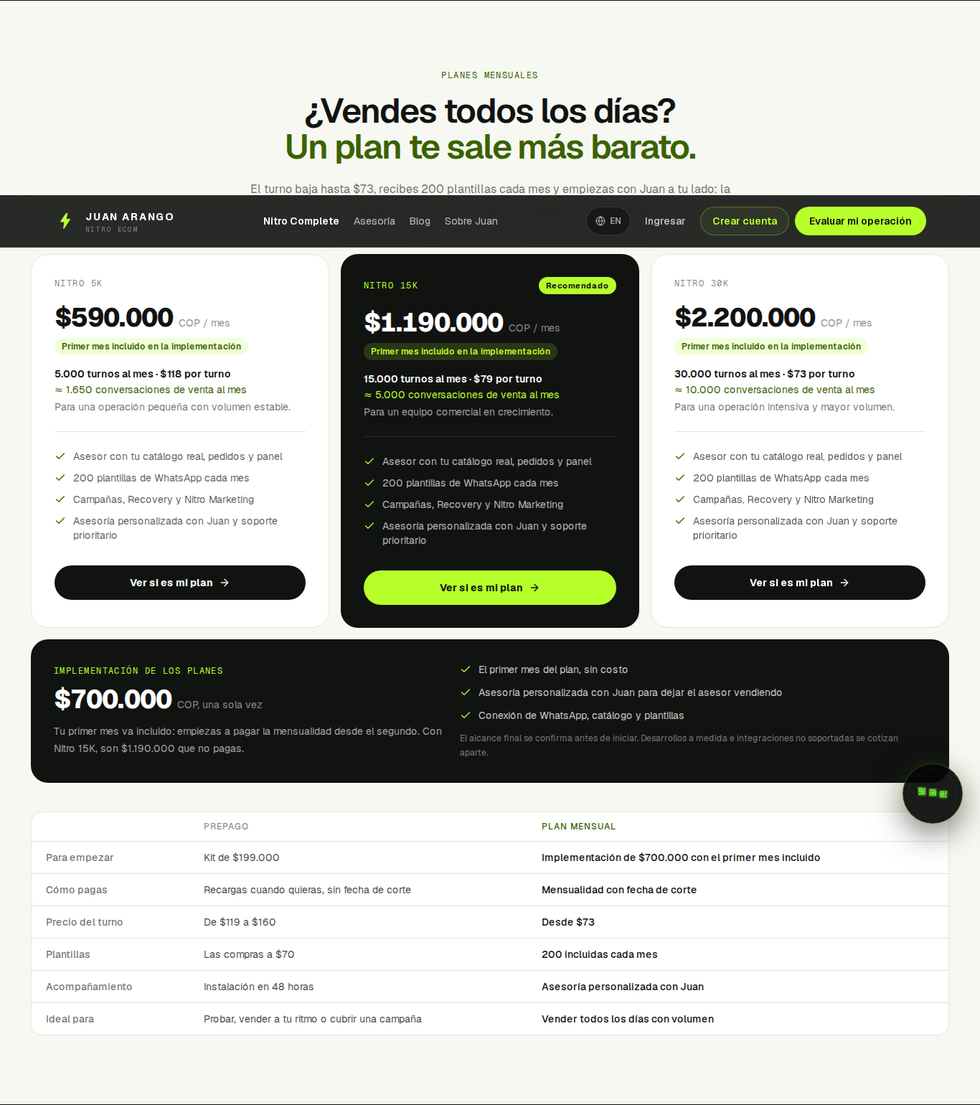
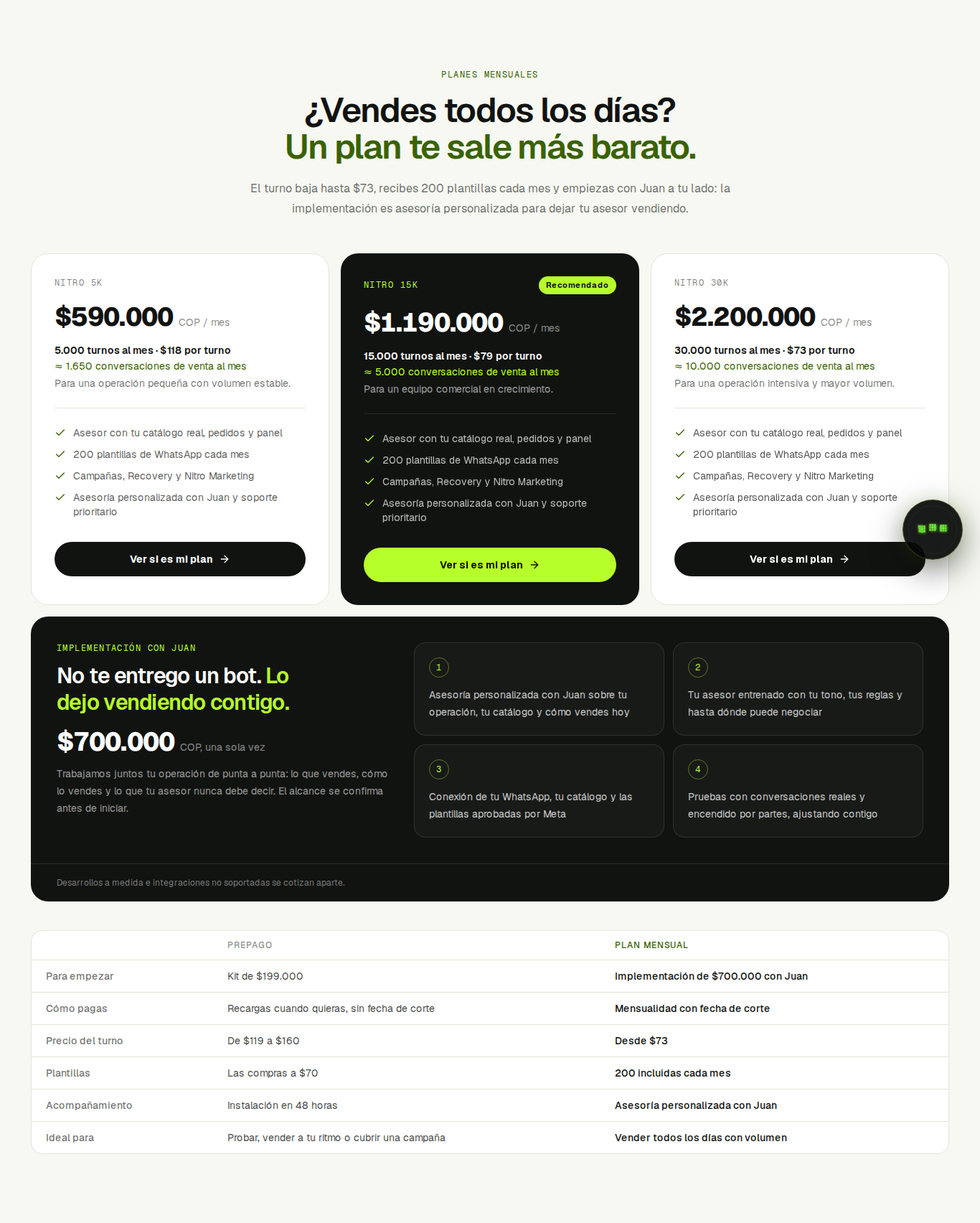
Nitro Complete: kit-only entry, no free first month, implementation narrative
- Remove the recharge planner: the entry is a single starter-kit card with
  what it includes, three next steps and recharge prices folded in a details.
- The implementation no longer includes the first month (Juan's decision):
  removed from plan cards, implementation block, comparison, FAQ, hero and
  home. New narrative: implementation with Juan in four steps, same list as
  nitro_bot's IMPLEMENTATION_INCLUDES.

Changed region(s): [[0.0, 0.0623, 1.0, 0.9351], [0.0, 0.9974, 1.0, 1.0]]

diff --git a/src/app/(main)/nitro-complete/page.tsx b/src/app/(main)/nitro-complete/page.tsx
@@ -1,7 +1,7 @@
 import type { Metadata } from "next";
 import Image from "next/image";
 import Link from "next/link";
-import { ArrowRight, Check, Clock3, Hand, LayoutTemplate, Megaphone, Radar, ShieldCheck, SlidersHorizontal, Store } from "lucide-react";
+import { ArrowRight, Check, ChevronDown, Clock3, Hand, LayoutTemplate, Megaphone, Radar, ShieldCheck, SlidersHorizontal, Store } from "lucide-react";
 import { Accordion, AccordionContent, AccordionItem, AccordionTrigger } from "@/components/ui/accordion";
 import { Button } from "@/components/ui/button";
 import { NitroCompleteModules } from "@/components/commercial/nitro-complete-modules";
@@ -24,7 +24,6 @@ import {
   primaryCta,
   UNITS_PER_CONVERSATION,
 } from "@/lib/commercial-content";
-import { RechargePlanner } from "@/components/commercial/recharge-planner";
 import { CONTACT_EMAILS } from "@/lib/contact-emails";
 import { NITRO_COMPLETE_ENTITY } from "@/components/legal/legal-shell";
 import { nitroAppUrl } from "@/lib/nitrobot-intake";
@@ -92,7 +91,7 @@ const faqs = [
   ["¿Le escribe a mis clientes sin permiso?", "No. Las respuestas ocurren cuando el cliente escribe. Los mensajes de seguimiento y recuperación usan plantillas aprobadas por Meta, respetan horarios y excluyen a quien pidió no recibir promociones."],
   ["¿Puedo empezar sin pagar mensualidad?", `Sí. Con Prepago compras el kit de arranque (${nitroCompleteStarterKit.price}: tu número, la instalación y tus primeras unidades y plantillas) y después recargas cuando quieras, desde ${formatCop(nitroCompleteUnitPacks[0].priceCop)}. Sin mensualidad ni fecha de corte, y lo que compras no se vence. Cuando vendas más, un plan mensual te sale más barato por unidad.`],
   ["¿Qué es una unidad?", `Cada respuesta que tu asesor le envía a un cliente. Si el cliente manda varios mensajes seguidos, el asesor los lee juntos y responde una vez. Una conversación de venta usa en promedio unas ${UNITS_PER_CONVERSATION}.`],
-  ["¿Qué incluye la implementación de un plan?", `Se paga una sola vez (${nitroCompleteImplementation}) e incluye ${nitroCompleteImplementationIncludes.map((i) => i.charAt(0).toLowerCase() + i.slice(1)).join(", ")}. Empiezas a pagar la mensualidad desde el segundo mes.`],
+  ["¿Qué incluye la implementación de un plan?", `Se paga una sola vez (${nitroCompleteImplementation}) y no te entregamos un bot: lo dejamos vendiendo. Incluye ${nitroCompleteImplementationIncludes.map((i) => i.charAt(0).toLowerCase() + i.slice(1)).join("; ")}. El alcance se confirma antes de iniciar.`],
   ["¿Puedo pasar de recargas a un plan, o al revés?", "Sí, cuando quieras. Si pasas a un plan, lo que te quede de unidades se suma como paquete y no se pierde. Si vuelves a recargas, sigues con tu saldo y sin fecha de corte."],
   ["¿Cuánto tarda la implementación?", "Depende de tu catálogo y de la aprobación de Meta. Te damos el plan concreto después de la evaluación, antes de que pagues."],
 ] as const;
@@ -156,7 +155,7 @@ export default function NitroCompletePage() {
               <PrimaryCta />
               <Button asChild size="lg" variant="outline" className="h-13 rounded-full border-white/15 bg-transparent px-7 text-base text-white hover:bg-white/7 hover:text-white"><Link href="#recarga">Empieza desde {nitroCompleteStarterKit.price}</Link></Button>
             </div>
-            <p className="mt-5 text-xs text-white/40">Sin mensualidad con recargas · Planes con el primer mes incluido · Evaluación gratuita</p>
+            <p className="mt-5 text-xs text-white/40">Empieza sin mensualidad · Implementación acompañada por Juan · Evaluación gratuita</p>
             <p className="mt-3 text-sm text-white/55">
               ¿Ya lo decidiste? <a href={nitroAppUrl("/registro")} className="font-semibold text-primary hover:underline">Crear mi cuenta</a>
               {" · "}
@@ -295,77 +294,88 @@ export default function NitroCompletePage() {
         </div>
       </section>
 
-      {/* Precios, paso 1: la entrada por recarga (NIT-89). Es la puerta que más
-          se destaca: mismo producto, sin mensualidad, y se elige según el uso
-          (atender la tienda o cubrir una campaña). */}
+      {/* Precios, puerta de entrada: el kit de arranque (NIT-89). Es la única
+          forma de empezar sin mensualidad; las recargas vienen después, desde
+          el panel, y sus precios quedan plegados dentro del kit. */}
       <section id="recarga" className="scroll-mt-20 px-5 py-16 lg:px-8 lg:py-24" data-nitro-orb="pricing">
-        <div className="mx-auto max-w-7xl">
+        <div className="mx-auto max-w-6xl">
           <div className="mx-auto max-w-3xl text-center">
             <p className="font-mono text-xs uppercase tracking-[0.12em] text-primary">La forma más fácil de empezar</p>
-            <h2 className="mt-4 text-balance text-4xl font-semibold leading-[1.05] tracking-[-0.035em] text-white sm:text-5xl">Empieza con recarga. <span className="text-primary">Sin mensualidad.</span></h2>
-            <p className="mt-5 text-base leading-7 text-white/58">Arrancas con el kit, un solo pago con la instalación y tus primeras unidades. Después recargas como recargas el celular, a tu medida: poquito para atender tu tienda o un paquete grande para una campaña de ads agresiva. Lo que compras no se vence.</p>
+            <h2 className="mt-4 text-balance text-4xl font-semibold leading-[1.05] tracking-[-0.035em] text-white sm:text-5xl">Empieza con el kit. <span className="text-primary">Sin mensualidad.</span></h2>
+            <p className="mt-5 text-base leading-7 text-white/58">Un solo pago y en 48 horas tu asesor está vendiendo. Después recargas como recargas el celular: poquito para atender tu tienda o un paquete grande para una campaña de ads.</p>
           </div>
 
-          <div className="mt-12 grid gap-5 lg:grid-cols-[.85fr_1.15fr] lg:items-start">
-            <article className="rounded-3xl bg-ink p-7 text-white ring-1 ring-primary/30 sm:p-8">
-              <div className="flex items-center justify-between gap-3">
-                <p className="font-mono text-xs uppercase tracking-[0.12em] text-primary">Paso 1 · Kit de arranque</p>
-                <span className="rounded-full bg-primary px-2.5 py-1 text-[11px] font-bold text-ink">Todos empiezan aquí</span>
+          <article className="mt-12 overflow-hidden rounded-[2rem] bg-ink text-white ring-1 ring-primary/30">
+            <div className="grid lg:grid-cols-[.9fr_1.1fr]">
+              <div className="flex flex-col p-7 sm:p-10">
+                <p className="font-mono text-xs uppercase tracking-[0.12em] text-primary">Kit de arranque</p>
+                <p className="mt-5 flex flex-wrap items-baseline gap-x-2 gap-y-1"><span className="text-5xl font-extrabold tracking-tight tabular-nums sm:text-6xl">{nitroCompleteStarterKit.price}</span><span className="text-sm text-white/50">COP, un solo pago</span></p>
+                <p className="mt-4 max-w-sm text-sm leading-6 text-white/62">Todo lo que necesitas para que tu asesor empiece a vender. Sin mensualidad ni fecha de corte.</p>
+                <a href={nitroAppUrl("/registro")} className="group mt-8 inline-flex min-h-13 w-full items-center justify-center gap-2 rounded-full bg-primary px-6 text-base font-bold text-ink transition hover:bg-primary/85 sm:w-auto sm:self-start">Empezar con el kit <ArrowRight className="size-4 transition-transform group-hover:translate-x-1" /></a>
+                <p className="mt-3 text-xs text-white/45">Pagas en línea con Nequi, PSE o Bancolombia.</p>
               </div>
-              <p className="mt-5 flex flex-wrap items-baseline gap-x-2 gap-y-1"><span className="text-5xl font-extrabold tracking-tight tabular-nums">{nitroCompleteStarterKit.price}</span><span className="text-sm text-white/50">COP, un solo pago</span></p>
-              <ul className="mt-6 space-y-2.5 border-t border-white/10 pt-6 text-sm text-white/75">
-                {[
-                  `Tu número de WhatsApp listo e instalación en máximo ${nitroCompleteStarterKit.installHours} horas`,
-                  `${nitroCompleteStarterKit.units.toLocaleString("es-CO")} unidades para tu asesor (≈ ${Math.floor(nitroCompleteStarterKit.units / UNITS_PER_CONVERSATION).toLocaleString("es-CO")} conversaciones)`,
-                  `${nitroCompleteStarterKit.templates} plantillas para confirmar pedidos y avisar envíos`,
-                  "El mismo Nitro Complete: asesor con tu catálogo real, pedidos, confirmaciones y panel",
-                  "Sin mensualidad ni fecha de corte",
-                ].map((item) => (
-                  <li key={item} className="flex gap-2.5"><Check className="mt-0.5 size-4 shrink-0 text-primary" />{item}</li>
-                ))}
-              </ul>
-              <a href={nitroAppUrl("/registro")} className="group mt-8 inline-flex min-h-12 w-full items-center justify-center gap-2 rounded-full bg-primary px-6 text-sm font-bold text-ink transition hover:bg-primary/85">Empezar con recarga <ArrowRight className="size-4 transition-transform group-hover:translate-x-1" /></a>
-              <p className="mt-3 text-center text-xs text-white/45">Creas tu cuenta, nos cuentas de tu negocio y pagas el kit con Nequi, PSE o Bancolombia.</p>
-            </article>
-            <RechargePlanner />
-          </div>
+              <div className="border-t border-white/10 bg-white/[0.03] p-7 sm:p-10 lg:border-l lg:border-t-0">
+                <p className="text-sm font-semibold text-white">Incluye</p>
+                <ul className="mt-5 space-y-4 text-sm leading-6 text-white/75">
+                  {[
+                    ["Tu WhatsApp listo para vender", `Número conectado e instalación en máximo ${nitroCompleteStarterKit.installHours} horas.`],
+                    [`${nitroCompleteStarterKit.units.toLocaleString("es-CO")} unidades para tu asesor`, `≈ ${Math.floor(nitroCompleteStarterKit.units / UNITS_PER_CONVERSATION).toLocaleString("es-CO")} conversaciones de venta. Una unidad es una respuesta.`],
+                    [`${nitroCompleteStarterKit.templates} plantillas de WhatsApp`, "Para confirmar pedidos y avisar envíos."],
+                    ["Nitro Complete completo", "Asesor con tu catálogo real, pedidos, confirmaciones y tu panel."],
+                  ].map(([title, text]) => (
+                    <li key={title} className="flex gap-3">
+                      <span className="mt-0.5 flex size-5 shrink-0 items-center justify-center rounded-full bg-primary"><Check className="size-3 text-ink" aria-hidden="true" /></span>
+                      <span><strong className="block font-semibold text-white">{title}</strong>{text}</span>
+                    </li>
+                  ))}
+                </ul>
+              </div>
+            </div>
 
-          <div className="mt-5 rounded-3xl border border-white/10 p-6 sm:p-8">
-            <div className="flex flex-wrap items-baseline justify-between gap-2">
-              <p className="text-sm font-semibold text-white">Después del kit, recargas de unidades: de poquito a una campaña grande</p>
-              <p className="text-xs text-white/45">Plantillas aparte a {nitroCompleteTemplatePrice} cada una</p>
-            </div>
-            <div className="mt-4 grid grid-cols-2 gap-3 sm:grid-cols-4">
-              {nitroCompleteUnitPacks.map((pack) => (
-                <div key={pack.units} className="rounded-2xl bg-white/5 p-4">
-                  <p className="text-xl font-semibold tabular-nums text-white">{pack.units.toLocaleString("es-CO")}</p>
-                  <p className="text-xs text-white/45">unidades · ≈ {Math.floor(pack.units / UNITS_PER_CONVERSATION).toLocaleString("es-CO")} conversaciones</p>
-                  <p className="mt-2 text-sm font-semibold tabular-nums text-primary">{formatCop(pack.priceCop)}</p>
-                </div>
-              ))}
-            </div>
-            <ul className="mt-5 grid gap-2 text-xs text-white/55 sm:grid-cols-3">
+            <ol className="grid border-t border-white/10 sm:grid-cols-3">
               {[
-                "Pagas en línea con Nequi, PSE o Bancolombia y se suma sola.",
-                "Si se te acaban, las conversaciones en curso no se cortan.",
-                "Precios en pesos con IVA incluido. Nada se vence.",
-              ].map((item) => (
-                <li key={item} className="flex gap-2"><Check className="mt-0.5 size-3.5 shrink-0 text-primary" aria-hidden="true" />{item}</li>
+                ["Creas tu cuenta", "Y nos cuentas de tu negocio y tu catálogo."],
+                ["Pagas el kit", `Instalamos y tu asesor sale a vender en máximo ${nitroCompleteStarterKit.installHours} horas.`],
+                ["Recargas cuando quieras", `Desde ${formatCop(nitroCompleteUnitPacks[0].priceCop)}, en tu panel. Lo que compras no vence.`],
+              ].map(([title, text], index) => (
+                <li key={title} className="flex gap-3 border-white/10 p-6 sm:border-l sm:first:border-l-0 [&:not(:first-child)]:border-t sm:[&:not(:first-child)]:border-t-0">
+                  <span className="flex size-7 shrink-0 items-center justify-center rounded-full border border-primary/40 font-mono text-xs text-primary">{index + 1}</span>
+                  <span className="text-sm leading-6 text-white/58"><strong className="block font-semibold text-white">{title}</strong>{text}</span>
+                </li>
               ))}
-            </ul>
-          </div>
+            </ol>
+
+            <details className="group border-t border-white/10">
+              <summary className="flex min-h-14 cursor-pointer list-none items-center justify-between gap-3 px-7 text-sm font-semibold text-white hover:text-primary sm:px-10 [&::-webkit-details-marker]:hidden">
+                Ver precios de las recargas
+                <ChevronDown className="size-4 shrink-0 transition-transform group-open:rotate-180" aria-hidden="true" />
+              </summary>
+              <div className="px-7 pb-8 sm:px-10">
+                <div className="grid grid-cols-2 gap-3 sm:grid-cols-4">
+                  {nitroCompleteUnitPacks.map((pack) => (
+                    <div key={pack.units} className="rounded-2xl bg-white/5 p-4">
+                      <p className="text-lg font-semibold tabular-nums text-white">{pack.units.toLocaleString("es-CO")} <span className="text-xs font-normal text-white/45">unidades</span></p>
+                      <p className="text-xs text-white/45">≈ {Math.floor(pack.units / UNITS_PER_CONVERSATION).toLocaleString("es-CO")} conversaciones</p>
+                      <p className="mt-2 text-sm font-semibold tabular-nums text-primary">{formatCop(pack.priceCop)}</p>
+                    </div>
+                  ))}
+                </div>
+                <p className="mt-4 text-xs leading-5 text-white/45">Precios en pesos con IVA incluido. Plantillas aparte a {nitroCompleteTemplatePrice} cada una. Si se te acaban las unidades, las conversaciones en curso no se cortan.</p>
+              </div>
+            </details>
+          </article>
         </div>
       </section>
 
-      {/* Precios, paso 2: los planes. Para quien vende todos los días: el turno
-          sale más barato y la implementación incluye el primer mes y la
-          asesoría con Juan. */}
+      {/* Planes: para quien vende todos los días. El turno sale más barato y la
+          implementación es asesoría personalizada con Juan. Sin meses gratis
+          (se retiró el 2026-10-01). */}
       <section id="planes" className="scroll-mt-20 bg-ground px-5 py-16 text-ink lg:px-8 lg:py-24" data-nitro-orb="pricing">
         <div className="mx-auto max-w-7xl">
           <div className="mx-auto max-w-3xl text-center">
             <p className="font-mono text-xs uppercase tracking-[0.12em] text-nitro-text">Planes mensuales</p>
             <h2 className="mt-4 text-balance text-4xl font-semibold leading-[1.05] tracking-[-0.035em] sm:text-5xl">¿Vendes todos los días? <span className="text-nitro-text">Un plan te sale más barato.</span></h2>
-            <p className="mt-5 text-base leading-7 text-ink/62">El turno baja hasta {formatCop(Math.min(...nitroCompletePlans.map(planUnitPrice)))}, recibes {PLAN_TEMPLATES_PER_CYCLE} plantillas cada mes y empiezas con Juan a tu lado: la implementación incluye tu primer mes y asesoría personalizada.</p>
+            <p className="mt-5 text-base leading-7 text-ink/62">El turno baja hasta {formatCop(Math.min(...nitroCompletePlans.map(planUnitPrice)))}, recibes {PLAN_TEMPLATES_PER_CYCLE} plantillas cada mes y empiezas con Juan a tu lado: la implementación es asesoría personalizada para dejar tu asesor vendiendo.</p>
           </div>
           <div className="mt-12 grid gap-4 lg:grid-cols-3">
             {nitroCompletePlans.map((plan) => (
@@ -375,7 +385,6 @@ export default function NitroCompletePage() {
                   {plan.featured ? <span className="rounded-full bg-primary px-2.5 py-1 text-[11px] font-bold text-ink">Recomendado</span> : null}
                 </div>
                 <p className="mt-5 flex items-baseline gap-2"><span className="text-4xl font-extrabold tracking-tight tabular-nums">{plan.price}</span><span className={`text-sm ${plan.featured ? "text-white/50" : "text-ink/50"}`}>COP / mes</span></p>
-                <p className={`mt-2 inline-flex w-fit rounded-full px-2.5 py-1 text-xs font-semibold ${plan.featured ? "bg-primary/15 text-primary" : "bg-nitro-soft text-nitro-text"}`}>Primer mes incluido en la implementación</p>
                 <p className={`mt-4 text-sm font-semibold ${plan.featured ? "text-white" : "text-ink"}`}>{plan.capacity} · {formatCop(planUnitPrice(plan))} por turno</p>
                 <p className={`mt-0.5 text-sm ${plan.featured ? "text-primary" : "text-nitro-text"}`}>≈ {conversationsFormat.format(planConversations(plan))} conversaciones de venta al mes</p>
                 <p className={`mt-1 text-sm ${plan.featured ? "text-white/60" : "text-ink/60"}`}>{plan.fit}</p>
@@ -394,18 +403,24 @@ export default function NitroCompletePage() {
             ))}
           </div>
 
-          <div className="mt-4 grid gap-6 rounded-3xl bg-ink p-7 text-white sm:p-8 lg:grid-cols-[1fr_1.2fr] lg:items-center">
-            <div>
-              <p className="font-mono text-xs uppercase tracking-[0.12em] text-primary">Implementación de los planes</p>
-              <p className="mt-3 flex flex-wrap items-baseline gap-x-2 gap-y-1"><span className="text-4xl font-extrabold tracking-tight tabular-nums">{nitroCompleteImplementation}</span><span className="text-sm text-white/50">COP, una sola vez</span></p>
-              <p className="mt-3 text-sm leading-6 text-white/62">Tu primer mes va incluido: empiezas a pagar la mensualidad desde el segundo. Con {nitroCompletePlans.find((p) => p.featured)?.name}, son {nitroCompletePlans.find((p) => p.featured)?.price} que no pagas.</p>
+          <div className="mt-4 overflow-hidden rounded-3xl bg-ink text-white">
+            <div className="grid gap-6 p-7 sm:p-9 lg:grid-cols-[.8fr_1.2fr] lg:items-start">
+              <div>
+                <p className="font-mono text-xs uppercase tracking-[0.12em] text-primary">Implementación con Juan</p>
+                <h3 className="mt-3 text-balance text-2xl font-semibold leading-tight tracking-tight sm:text-3xl">No te entrego un bot. <span className="text-primary">Lo dejo vendiendo contigo.</span></h3>
+                <p className="mt-4 flex flex-wrap items-baseline gap-x-2 gap-y-1"><span className="text-4xl font-extrabold tracking-tight tabular-nums">{nitroCompleteImplementation}</span><span className="text-sm text-white/50">COP, una sola vez</span></p>
+                <p className="mt-3 text-sm leading-6 text-white/58">Trabajamos juntos tu operación de punta a punta: lo que vendes, cómo lo vendes y lo que tu asesor nunca debe decir. El alcance se confirma antes de iniciar.</p>
+              </div>
+              <ol className="grid gap-3 sm:grid-cols-2">
+                {nitroCompleteImplementationIncludes.map((item, index) => (
+                  <li key={item} className="rounded-2xl border border-white/10 bg-white/[0.03] p-5">
+                    <span className="flex size-7 items-center justify-center rounded-full border border-primary/40 font-mono text-xs text-primary">{index + 1}</span>
+                    <p className="mt-3 text-sm leading-6 text-white/78">{item}</p>
+                  </li>
+                ))}
+              </ol>
             </div>
-            <ul className="space-y-3 text-sm text-white/78">
-              {nitroCompleteImplementationIncludes.map((item) => (
-                <li key={item} className="flex gap-2.5"><Check className="mt-0.5 size-4 shrink-0 text-primary" aria-hidden="true" />{item}</li>
-              ))}
-              <li className="text-xs leading-5 text-white/45">El alcance final se confirma antes de iniciar. Desarrollos a medida e integraciones no soportadas se cotizan aparte.</li>
-            </ul>
+            <p className="border-t border-white/10 px-7 py-4 text-xs leading-5 text-white/45 sm:px-9">Desarrollos a medida e integraciones no soportadas se cotizan aparte.</p>
           </div>
 
           {/* Prepago o plan, en cinco líneas. Solo diferencias reales (nitro_bot:
@@ -422,7 +437,7 @@ export default function NitroCompletePage() {
               </thead>
               <tbody className="[&_td]:border-t [&_td]:border-line [&_td]:px-5 [&_td]:py-3 [&_th]:border-t [&_th]:border-line [&_th]:px-5 [&_th]:py-3">
                 {[
-                  ["Para empezar", `Kit de ${nitroCompleteStarterKit.price}`, `Implementación de ${nitroCompleteImplementation} con el primer mes incluido`],
+                  ["Para empezar", `Kit de ${nitroCompleteStarterKit.price}`, `Implementación de ${nitroCompleteImplementation} con Juan`],
                   ["Cómo pagas", "Recargas cuando quieras, sin fecha de corte", "Mensualidad con fecha de corte"],
                   ["Precio del turno", `De ${formatCop(Math.min(...nitroCompleteUnitPacks.map((p) => p.priceCop / p.units)))} a ${formatCop(Math.max(...nitroCompleteUnitPacks.map((p) => p.priceCop / p.units)))}`, `Desde ${formatCop(Math.min(...nitroCompletePlans.map(planUnitPrice)))}`],
                   ["Plantillas", `Las compras a ${nitroCompleteTemplatePrice}`, `${PLAN_TEMPLATES_PER_CYCLE} incluidas cada mes`],

diff --git a/src/lib/commercial-content.ts b/src/lib/commercial-content.ts
@@ -117,14 +117,16 @@ export function recommendPlan(monthlyConversations: number): NitroCompletePlan |
 export const nitroCompleteImplementation = "$700.000";
 
 /**
- * Lo que trae la implementación de un plan (decisión de Juan del 2026-10-01).
- * Misma lista que nitro_bot (`IMPLEMENTATION_INCLUDES` en
- * lib/commercial/plans.ts): si cambia allá, se cambia aquí.
+ * Lo que trae la implementación de un plan, en el orden en que ocurre. Misma
+ * lista que nitro_bot (`IMPLEMENTATION_INCLUDES` en lib/commercial/plans.ts):
+ * si cambia allá, se cambia aquí. No incluye meses gratis (se retiró el
+ * 2026-10-01).
  */
 export const nitroCompleteImplementationIncludes = [
-  "El primer mes del plan, sin costo",
-  "Asesoría personalizada con Juan para dejar el asesor vendiendo",
-  "Conexión de WhatsApp, catálogo y plantillas",
+  "Asesoría personalizada con Juan sobre tu operación, tu catálogo y cómo vendes hoy",
+  "Tu asesor entrenado con tu tono, tus reglas y hasta dónde puede negociar",
+  "Conexión de tu WhatsApp, tu catálogo y las plantillas aprobadas por Meta",
+  "Pruebas con conversaciones reales y encendido por partes, ajustando contigo",
 ] as const;
 
 /** Plantillas de WhatsApp incluidas cada mes en los planes (nitro_bot: PLAN_TEMPLATES_PER_CYCLE). */
@@ -167,16 +169,6 @@ export type NitroCompleteUnitPack = (typeof nitroCompleteUnitPacks)[number];
 /** Precio por plantilla de WhatsApp en las dos modalidades (nitro_bot: price_template_cop). */
 export const nitroCompleteTemplatePrice = "$70";
 
-/**
- * La recarga que cubre `units`: el paquete más pequeño que alcanza. Por encima
- * del mayor, varias del mayor (lo que sobra no vence).
- */
-export function packFor(units: number): { pack: NitroCompleteUnitPack; count: number } {
-  const fit = nitroCompleteUnitPacks.find((pack) => pack.units >= units);
-  if (fit) return { pack: fit, count: 1 };
-  const biggest = nitroCompleteUnitPacks[nitroCompleteUnitPacks.length - 1];
-  return { pack: biggest, count: Math.ceil(units / biggest.units) };
-}
 
 export const solutions = [
   {

diff --git a/src/app/(main)/page.tsx b/src/app/(main)/page.tsx
@@ -162,9 +162,9 @@ export default function HomePage() {
               <p className="mt-3 flex flex-wrap items-baseline gap-x-2 gap-y-1"><span className="text-4xl font-extrabold tracking-tight tabular-nums text-white">{nitroCompletePlans[0].price}</span><span className="text-sm text-white/50">desde, al mes</span></p>
               <ul className="mt-6 space-y-2.5 border-t border-white/10 pt-6 text-sm text-white/70">
                 {[
-                  "La implementación incluye tu primer mes",
-                  "Asesoría personalizada conmigo para dejarlo vendiendo",
+                  "Implementación conmigo: lo dejamos vendiendo juntos",
                   `El turno más barato y ${PLAN_TEMPLATES_PER_CYCLE} plantillas cada mes`,
+                  "Campañas, Recovery y soporte prioritario",
                 ].map((item) => <li key={item} className="flex gap-2.5"><Check className="mt-0.5 size-4 shrink-0 text-primary" />{item}</li>)}
               </ul>
               <span className="mt-8 inline-flex items-center gap-2 text-sm font-bold text-white group-hover:text-primary">Ver planes <ArrowRight className="size-4 transition-transform group-hover:translate-x-1" /></span>

diff --git a/docs/bitacora/2026-10.md b/docs/bitacora/2026-10.md
@@ -44,3 +44,23 @@ solo correos del dominio; «¿Cuánto recargo?», «Primer mes incluido en la
 implementación» y «Empieza a tu medida» presentes. NIT-89 cerrada; NIT-93
 sigue abierta hasta NIT-92 (privacidad@ y juan@). Este registro se commiteó en
 local y sube con el siguiente despliegue.
+
+### Ajuste del mismo día: solo el kit y sin primer mes gratis
+
+A pedido de Juan:
+
+- **Se retiró el planificador de recarga** (`recharge-planner.tsx` borrado,
+  y `packFor` con él). La entrada es una sola tarjeta del kit: precio, qué
+  incluye, «cómo sigue» en tres pasos (cuenta → kit e instalación en 48 h →
+  recargas desde $16.000) y los precios de las recargas plegados en «Ver
+  precios de las recargas».
+- **La implementación ya NO incluye el primer mes** (Juan lo retiró). Se
+  quitaron el badge de los planes, la frase del bloque, la fila del
+  comparativo, la línea de la FAQ, el texto del hero y la viñeta de la home.
+  Narrativa nueva: «Implementación con Juan · No te entrego un bot. Lo dejo
+  vendiendo contigo», con cuatro pasos (`nitroCompleteImplementationIncludes`,
+  igual a `IMPLEMENTATION_INCLUDES` de nitro_bot): asesoría sobre la
+  operación, asesor entrenado, conexión y pruebas con encendido por partes.
+
+Build en verde; capturas a 1366/390 px sin scroll horizontal
+(`artifacts/precios-recarga-2026-10-01/`, reemplazadas).

diff --git a/docs/pendientes.md b/docs/pendientes.md
@@ -5,9 +5,9 @@ registra en la bitácora correspondiente.
 
 ## Precios con entrada por recarga y correos del dominio — 1 de octubre de 2026
 
-NIT-89 (bloque «Empieza con recarga», planificador de recarga por uso:
-atender la tienda o campaña de ads), planes con la implementación que
-incluye el primer mes y asesoría con Juan, comparativo Prepago vs Plan,
+NIT-89 (entrada por el kit de arranque, con los precios de recarga plegados),
+planes con la implementación como asesoría personalizada con Juan (sin meses
+gratis: se retiró el mismo día), comparativo Prepago vs Plan,
 sección «Empieza a tu medida» en la home y NIT-93 (ningún Gmail visible;
 todo sale de `src/lib/contact-emails.ts`). Typecheck, ESLint y build en
 verde; sin scroll horizontal a 390 px. Queda:
